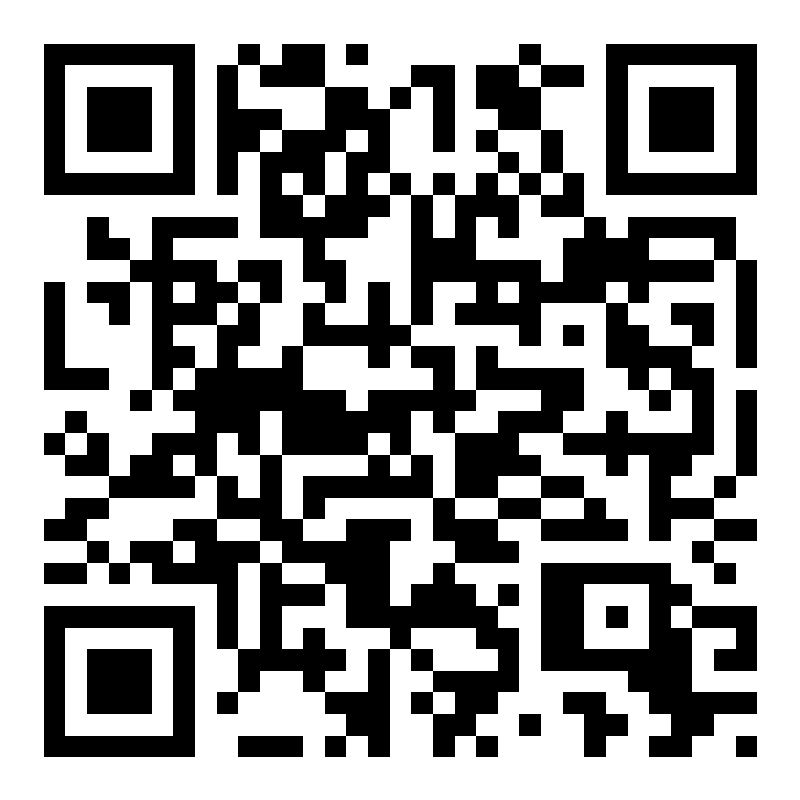
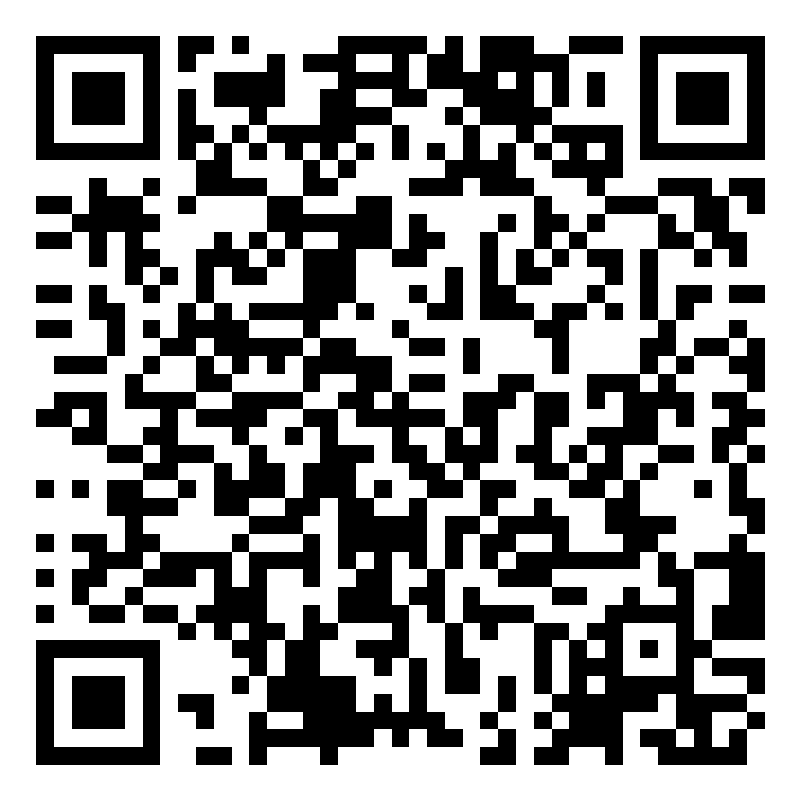
actualizado

diff --git a/server.js b/server.js
@@ -29,7 +29,7 @@ app.post('/api/generar', async (req, res) => {
   urls[id] = url;
   fs.writeFileSync('urls.json', JSON.stringify(urls, null, 2));
   
-  const baseURL = 'https://gestor-qr-mblj.onrender.com/';
+  const baseURL = 'https://gestor-qr-mblj.onrender.com';
   const qrlink = `${baseURL}/r/${id}`;
   //const qrlink = `http://192.168.1.7:${port}/r/${id}`;
   const qrDataUrl = await QRCode.toDataURL(qrlink, {
